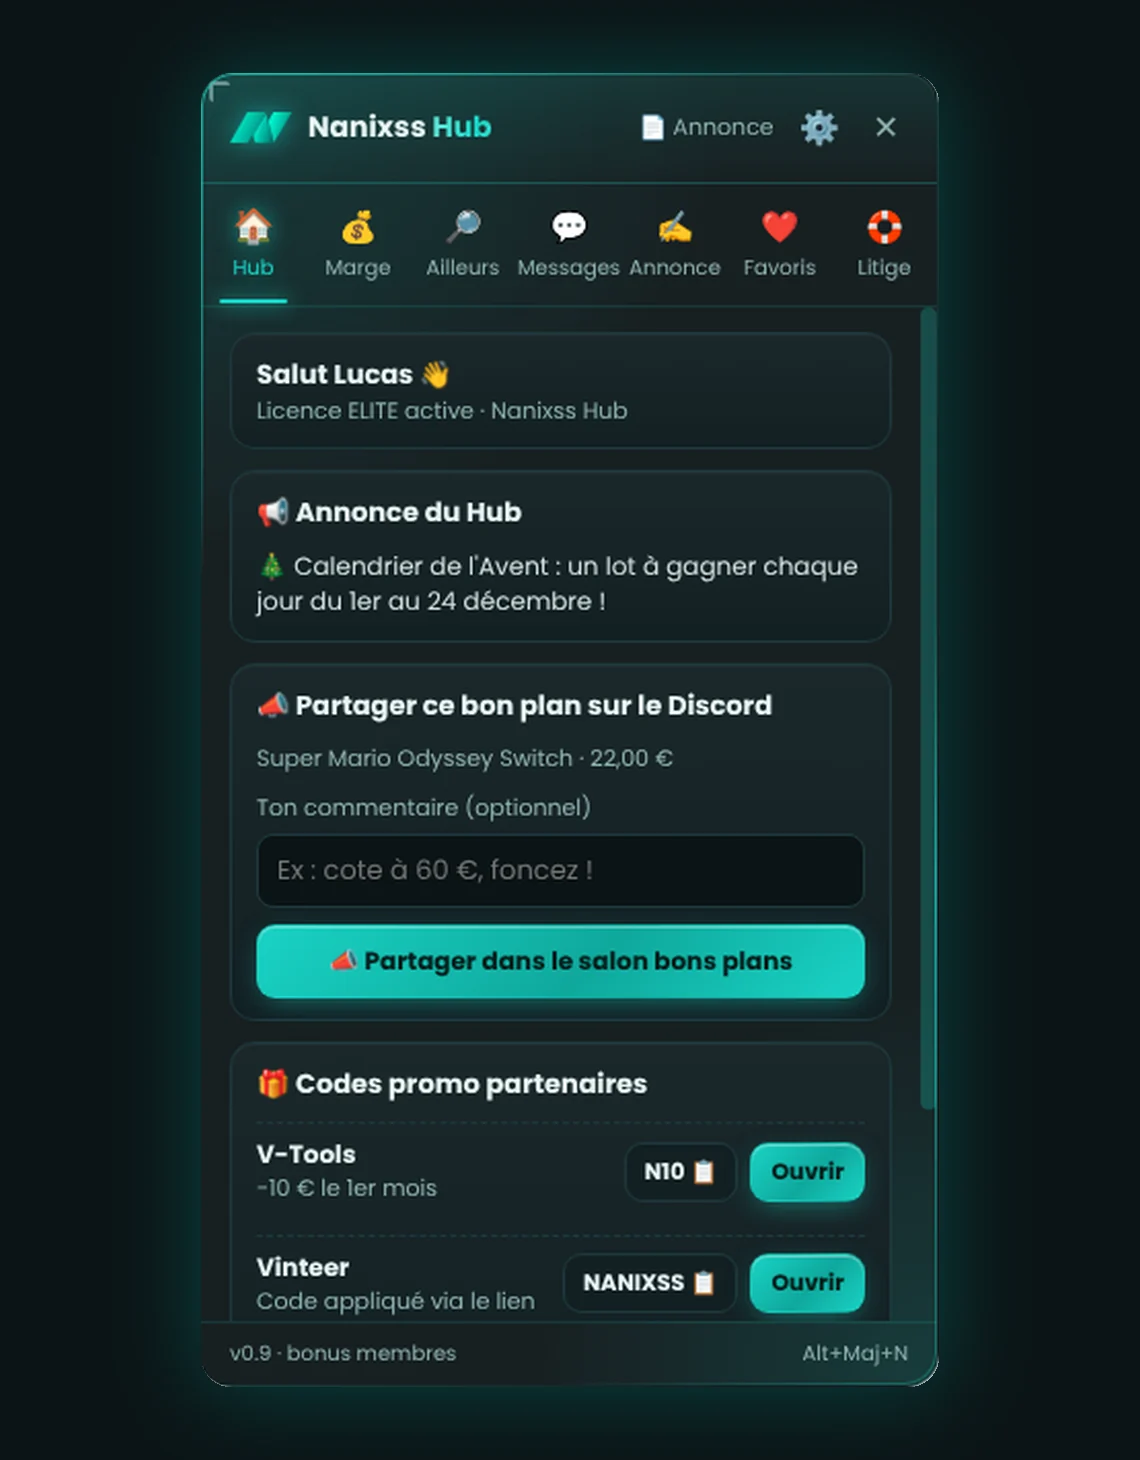
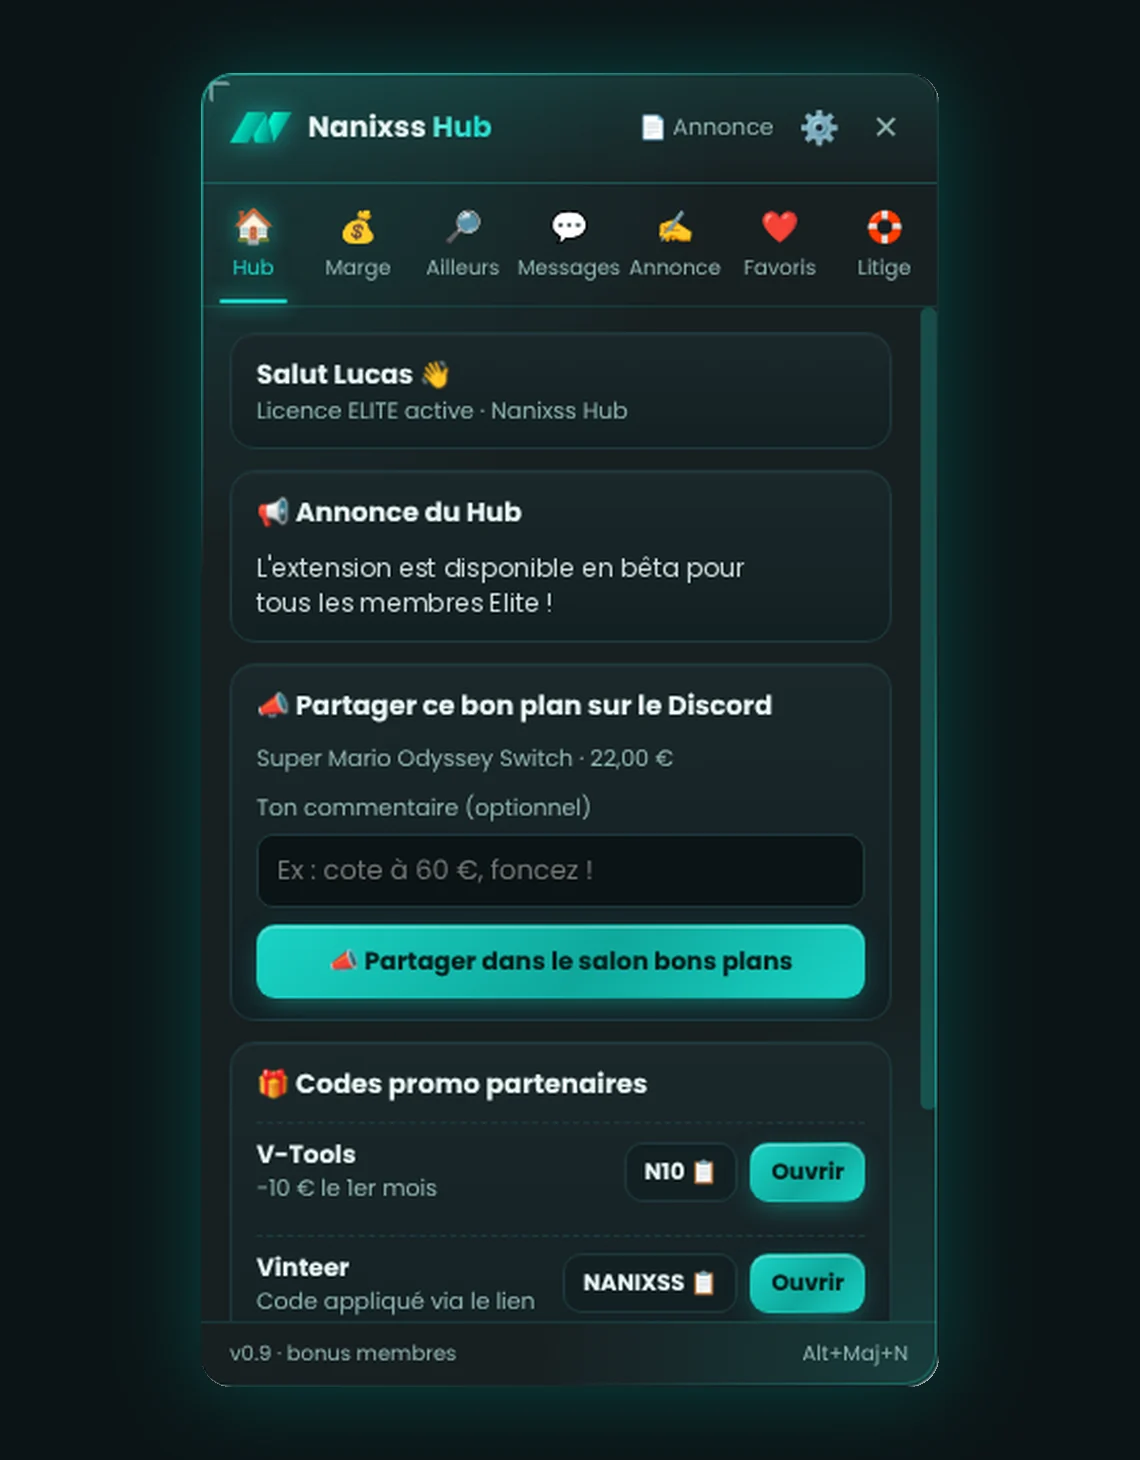
Démo extension : annonce du Hub remplacée par un texte neutre
Claude-Session: https://claude.ai/code/session_01S77nvH7U2CTVNEbgjY37d3

Changed region(s): [[0.2149, 0.3699, 0.7675, 0.4315]]

diff --git a/elite/index.html b/elite/index.html
@@ -1372,7 +1372,7 @@
           <div class="xd-bar" aria-hidden="true"><i></i><i></i><i></i><span>Extension Nanixss Hub</span></div>
           <div class="xd-scr">
             <img class="on" src="ext-marge.webp" alt="Panneau de l'extension : calcul de marge sur un jeu Switch, avec frais Vinted, port, Urssaf et bénéfice net" width="570" height="730" loading="lazy" decoding="async">
-            <img src="ext-hub.webp" alt="Panneau de l'extension : partage d'un bon plan sur le Discord et codes promo partenaires" width="570" height="730" loading="lazy" decoding="async">
+            <img src="ext-hub.webp?v=2" alt="Panneau de l'extension : partage d'un bon plan sur le Discord et codes promo partenaires" width="570" height="730" loading="lazy" decoding="async">
             <img src="ext-favoris.webp" alt="Panneau de l'extension : liste des favoris avec un message prêt pour chacun" width="570" height="730" loading="lazy" decoding="async">
             <img src="ext-bordereau.webp" alt="Bordereau Vinted converti au format imprimante thermique 100 × 150 mm" width="570" height="730" loading="lazy" decoding="async">
             <img src="ext-themes.webp" alt="Réglages de l'extension : choix parmi 6 thèmes et position du bouton flottant" width="570" height="730" loading="lazy" decoding="async">
